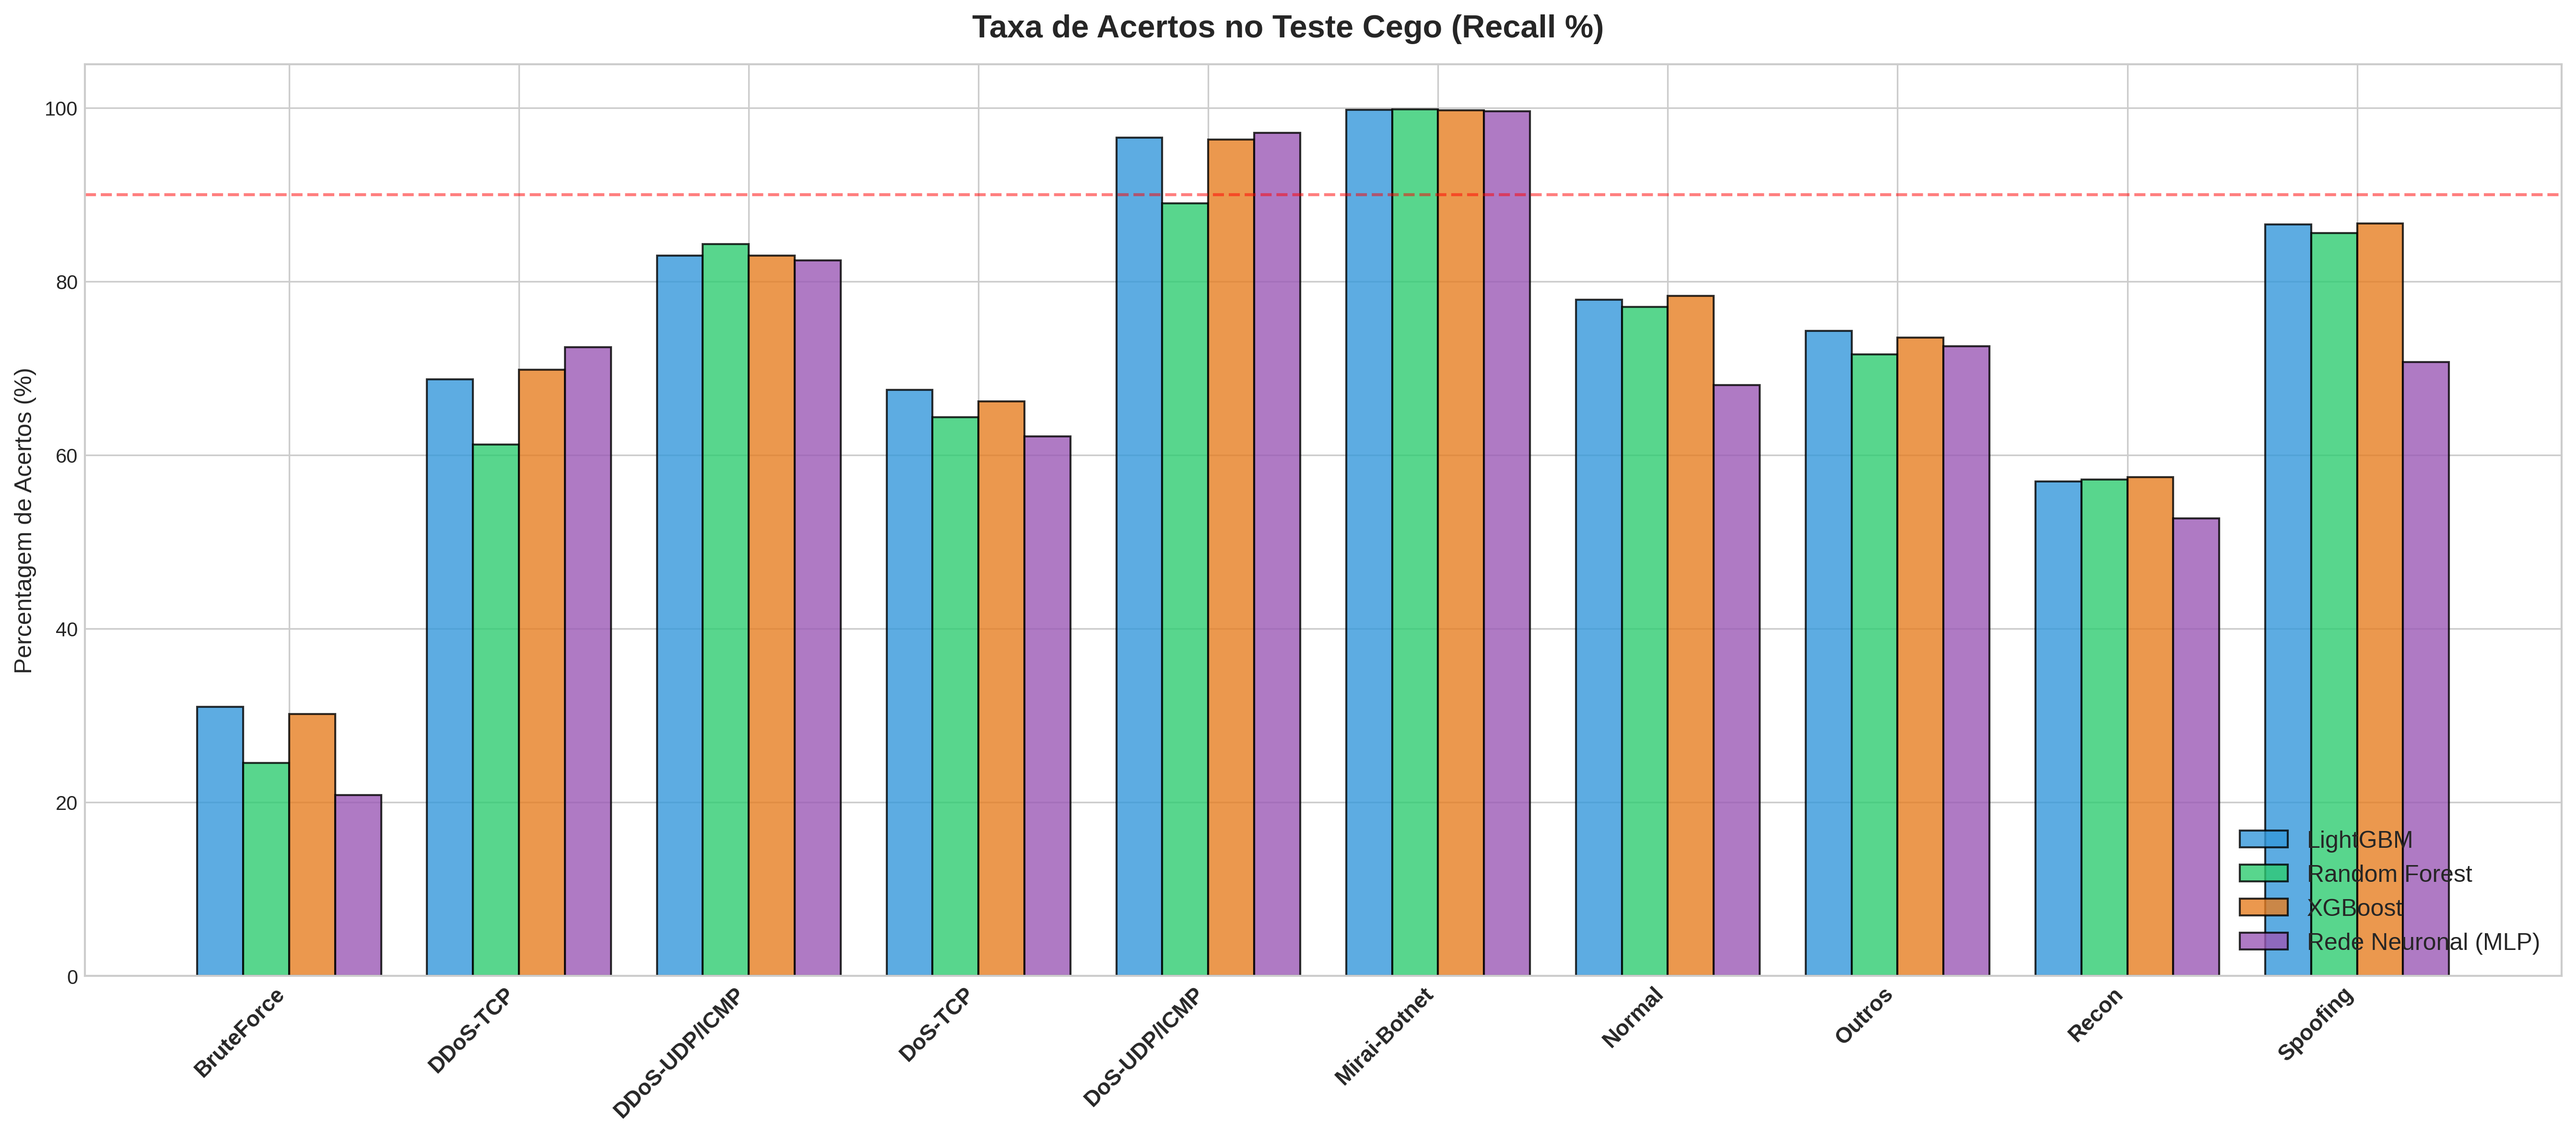
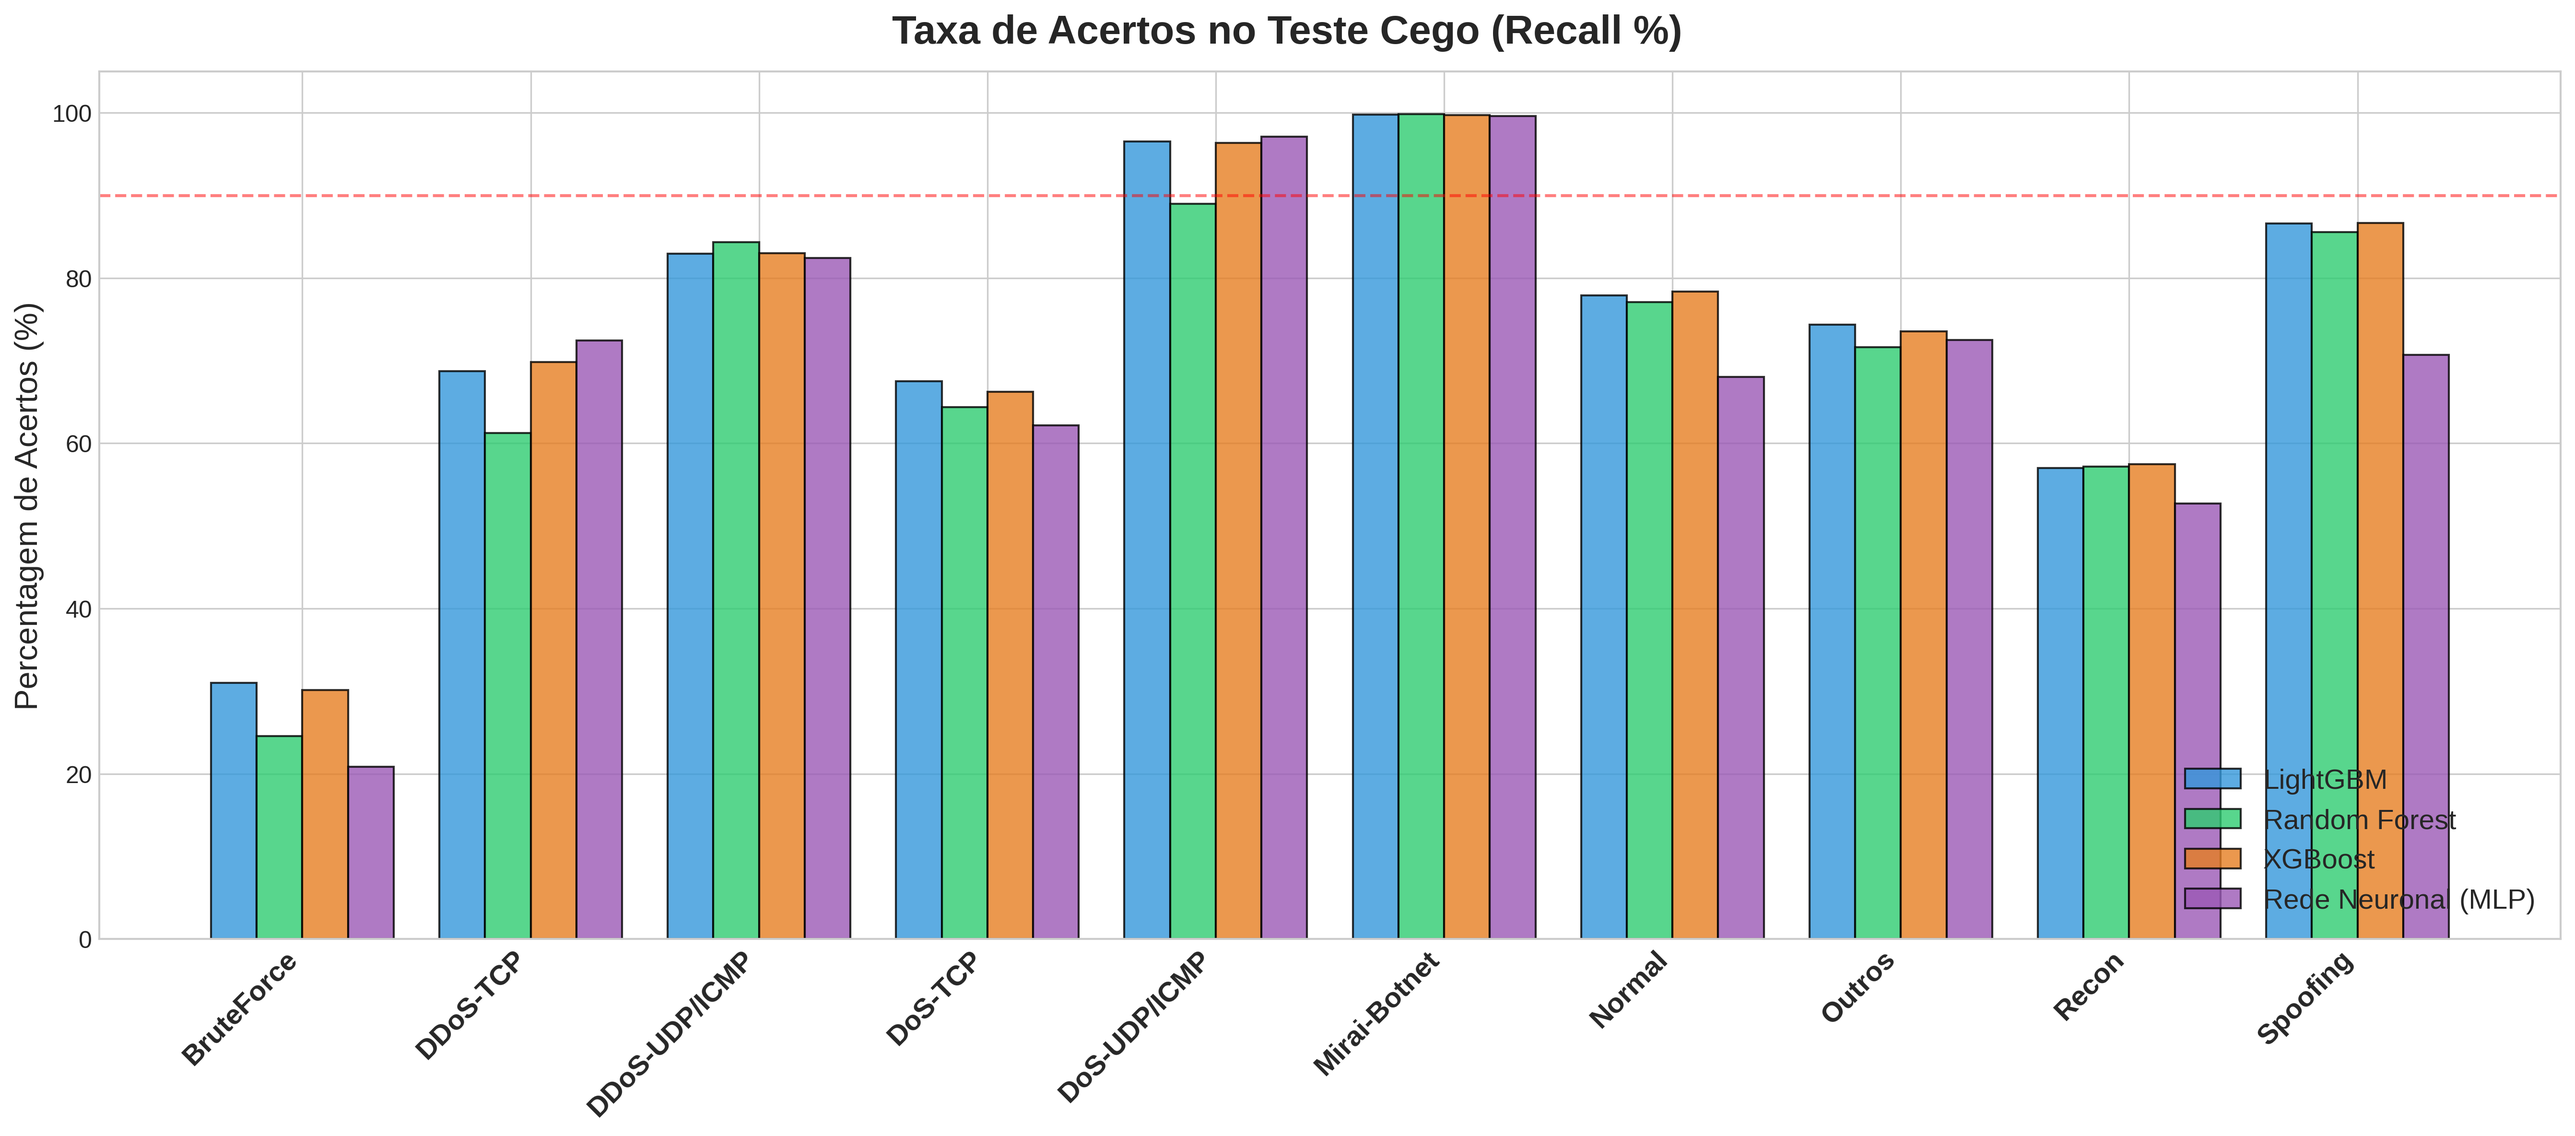
graficos com letra maior

diff --git a/analise_network/modelos/comparar_networks.py b/analise_network/modelos/comparar_networks.py
@@ -11,7 +11,7 @@ print("1. A carregar ficheiros de Validação...")
 
 try:
     # Lê os ficheiros do 06 ao 10 ou ajusta o caminho para o teu novo ficheiro de validação
-    df = pd.read_csv('./../datasets/dataset_validar_treino.csv', low_memory=False)
+    df = pd.read_csv('../datasets/dataset_validar_treino.csv', low_memory=False)
     print(f"✅ Oceano de dados carregado! Total de pacotes a testar: {len(df)}")
 except FileNotFoundError:
     print("❌ ERRO: Ficheiro de validação não encontrado.")
@@ -130,26 +130,30 @@ cores = ['#3498DB', '#2ECC71', '#E67E22', '#9B59B6']
 
 # GRÁFICO 1: GLOBAIS
 fig, (ax1, ax2) = plt.subplots(1, 2, figsize=(15, 6))
-fig.suptitle('Métricas Globais (Teste Cego - Mundo Real)', fontsize=16, fontweight='bold')
+fig.suptitle('Métricas Globais (Teste Cego - Mundo Real)', fontsize=20, fontweight='bold')
 
 ax1.bar(nomes_modelos, resultados_acc, color=cores, edgecolor='black', alpha=0.8)
-ax1.set_title('Accuracy Global (%) ↑', fontsize=14, pad=15)
+ax1.set_title('Accuracy Global (%) ↑', fontsize=16, pad=15)
 ax1.set_ylim(min(resultados_acc) - 1 if min(resultados_acc) > 1 else 0, 100.5)
+ax1.tick_params(axis='x', labelsize=14)
+ax1.tick_params(axis='y', labelsize=12)
 for i, v in enumerate(resultados_acc):
-    ax1.text(i, v + 0.1, f"{v:.2f}%", ha='center', fontweight='bold')
+    ax1.text(i, v + 0.1, f"{v:.2f}%", ha='center', fontweight='bold', fontsize=13)
 
 ax2.bar(nomes_modelos, resultados_f1, color=cores, edgecolor='black', alpha=0.8)
-ax2.set_title('F1-Score Ponderado (%) ↑', fontsize=14, pad=15)
+ax2.set_title('F1-Score Ponderado (%) ↑', fontsize=16, pad=15)
 ax2.set_ylim(min(resultados_f1) - 1 if min(resultados_f1) > 1 else 0, 100.5)
+ax2.tick_params(axis='x', labelsize=14)
+ax2.tick_params(axis='y', labelsize=12)
 for i, v in enumerate(resultados_f1):
-    ax2.text(i, v + 0.1, f"{v:.2f}%", ha='center', fontweight='bold')
+    ax2.text(i, v + 0.1, f"{v:.2f}%", ha='center', fontweight='bold', fontsize=13)
 
 plt.tight_layout()
 plt.savefig('grafico_teste_cego_global.png', dpi=300, bbox_inches='tight')
 
 # GRÁFICO 2: POR ANOMALIA
 fig2, ax3 = plt.subplots(figsize=(18, 8))
-fig2.suptitle('Taxa de Acertos no Teste Cego (Recall %)', fontsize=16, fontweight='bold')
+fig2.suptitle('Taxa de Acertos no Teste Cego (Recall %)', fontsize=20, fontweight='bold')
 
 x = np.arange(len(nomes_das_classes)) 
 largura_barra = 0.20
@@ -160,10 +164,11 @@ for i, nome_modelo in enumerate(nomes_modelos):
     ax3.bar(posicao, valores_modelo, largura_barra, label=nome_modelo, color=cores[i], edgecolor='black', alpha=0.8)
 
 ax3.set_xticks(x)
-ax3.set_xticklabels(nomes_das_classes, rotation=45, ha='right', fontsize=11, fontweight='bold')
-ax3.set_ylabel('Percentagem de Acertos (%)', fontsize=12)
+ax3.set_xticklabels(nomes_das_classes, rotation=45, ha='right', fontsize=14, fontweight='bold')
+ax3.tick_params(axis='y', labelsize=12)
+ax3.set_ylabel('Percentagem de Acertos (%)', fontsize=16)
 ax3.set_ylim(0, 105)
-ax3.legend(fontsize=12, loc='lower right')
+ax3.legend(fontsize=14, loc='lower right')
 
 ax3.axhline(y=90, color='red', linestyle='--', alpha=0.5, label='Meta 90%')
 
